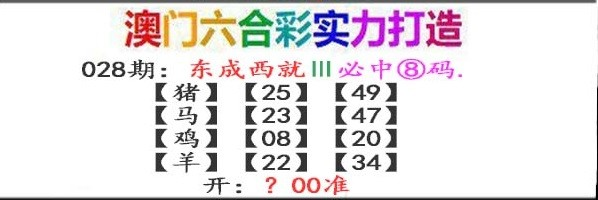
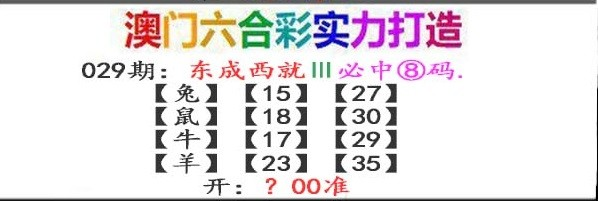
Update:  2025.01.29 13:20:34

Changed region(s): [[0.1204, 0.3, 0.7826, 0.87], [0.0, 0.0, 1.0, 0.24]]

diff --git a/Script/Src/xjw/杀两肖图.js b/Script/Src/xjw/杀两肖图.js
@@ -65,9 +65,9 @@ document.writeln("				<tr style=\'box-sizing: border-box;\'>");
 document.writeln("					<td height=\'40\' style=\'box-sizing: border-box;\'>");
 document.writeln("			<p align=\'center\' style=\'box-sizing: border-box; padding: 0px; margin: 0px;\'>");
 document.writeln("			<font size=\'4\' style=\'margin: 0px; padding: 0px;\'>");
-document.writeln("			029期玄机网禁两肖<font color=\'#FF0000\'>【更新中】</font>特开<font color=\'#0000FF\'>？00</font>准<br>");
-document.writeln("			029期澳门杀两肖图<font color=\'#FF0000\'>【更新中】</font>特开<font color=\'#0000FF\'>？00</font>准<br>");
-document.writeln("			029期澳门图库禁肖<font color=\'#FF0000\'>【更新中】</font>特开<font color=\'#0000FF\'>？00</font>准</font></font></p></td>");
+document.writeln("			029期玄机网禁两肖<font color=\'#FF0000\'>【虎狗】</font>特开<font color=\'#0000FF\'>？00</font>准<br>");
+document.writeln("			029期澳门杀两肖图<font color=\'#FF0000\'>【羊马】</font>特开<font color=\'#0000FF\'>？00</font>准<br>");
+document.writeln("			029期澳门图库禁肖<font color=\'#FF0000\'>【猪马】</font>特开<font color=\'#0000FF\'>？00</font>准</font></font></p></td>");
 document.writeln("		</tr>");
 document.writeln("<!--结束-->	");
 document.writeln("		");
